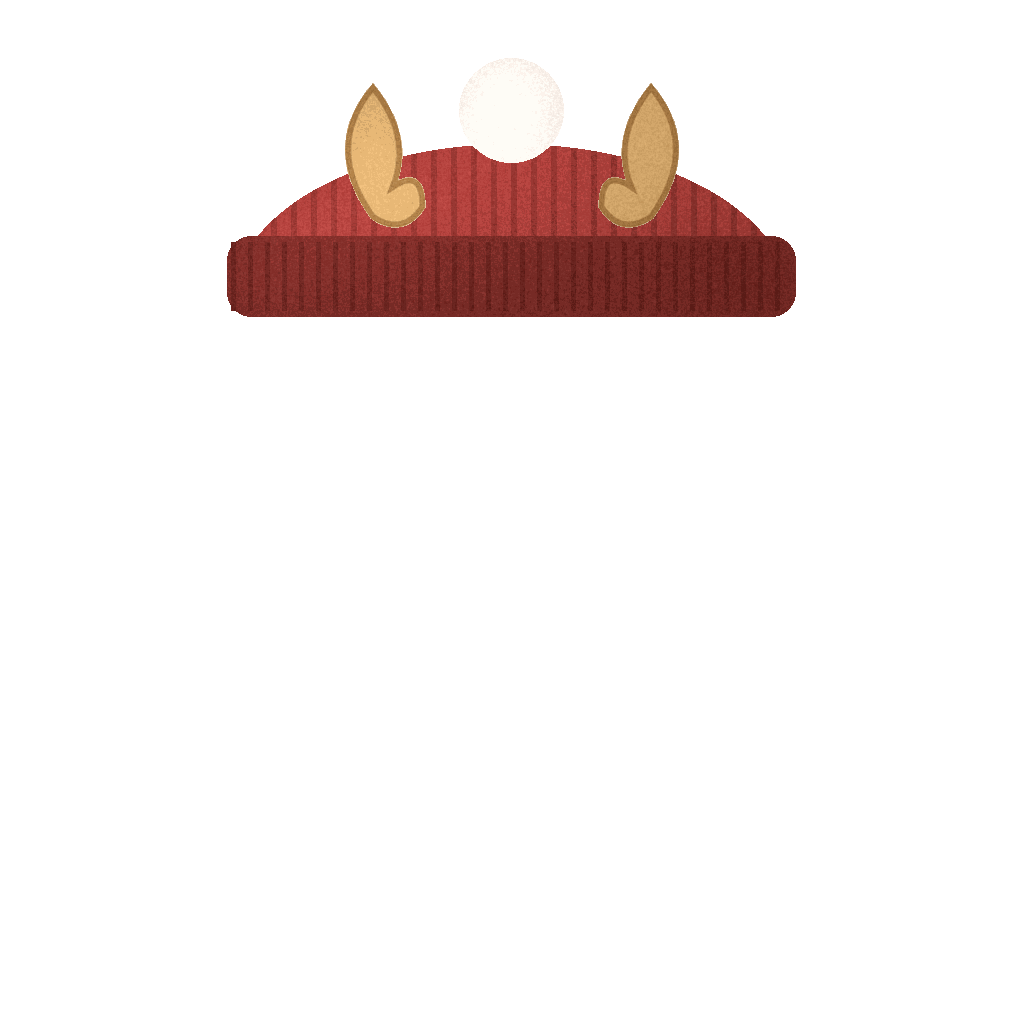
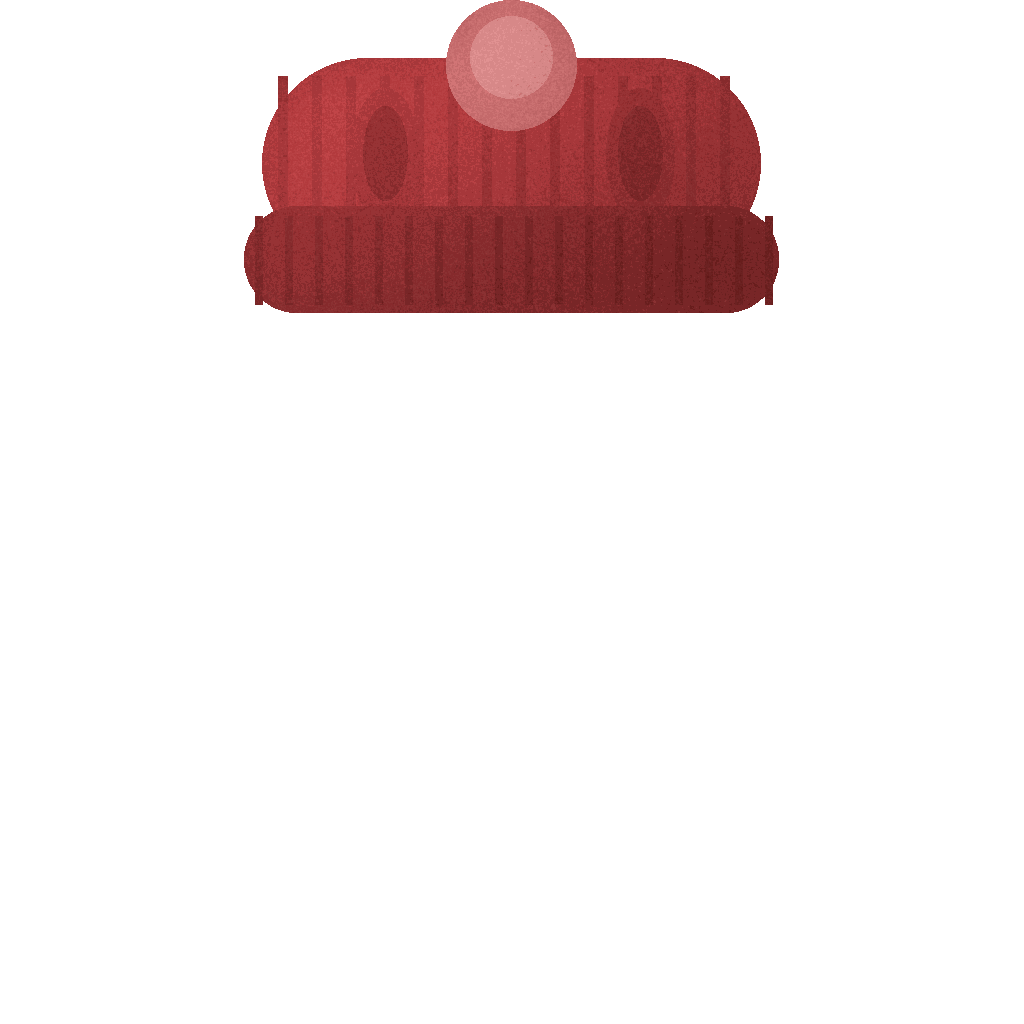
帽子3点だけを acc_v2 で入れ替えました（ニット帽・ベレー・中折れ）
★坂本さんのお決め（2026-09-08）
  ① 直す家族は hats_0N
  ② フードとコック帽は、いまの絵のまま（★acc_v2 では こわれています）
  ③ キャップも、いまの丸い形のまま
  ④ 3点だけを入れ替える

★★様式は tools/acnh_style.py の restyle を、そのまま通しました。
  ★他の200点あまりと、同じ通り道です。★3点だけ質感が違う、を避けます。
★★形式も P形式・1024・透明の目印255。★他と同じ帯（40〜52KB）に入りました。

★★耳の代用を、確かめました。
  ★acc.py が読む orig_sheep.png は、この repo にありません。
  ★体＋頭 を重ねたもので代えましたが、
  ★★体は、耳の画素を1つも出しません（★0画素）。
  ★だから、頭だけから取ったものと、★色まで まったく同じでした。
  ★これで、前の報告に書いた「確かめられなかったこと」が消えました。

★ベレーは、黒から えんじ に変わります（acc_v2 の既定の色）。
  ★hatBeret（ベレー帽）も えんじ です。★色が近くなります。

★戻し方
  git checkout 30957aa -- public/sheep/items

Claude-Session: https://claude.ai/code/session_01P6Lfc5LxjSbHgGaQUCbdAr

Changed region(s): [[0.2188, 0.0, 0.7812, 0.3125]]

diff --git a/tools/apply_hats_v2.py b/tools/apply_hats_v2.py
@@ -1,0 +1,108 @@
+# -*- coding: utf-8 -*-
+# ★帽子3点を acc_v2 で作り直します（2026-09-08・坂本さんの決め）
+#
+#   ★★入れ替えるのは3点だけです。★ニット帽・ベレー・中折れ。
+#     ★キャップ・フード・コック帽は、★いまの絵のままにします。
+#       ★acc_v2 のフードは輪だけが浮き、★コック帽は白に白で見えません。
+#       ★キャップは、いまの丸い形のほうがきれいです。
+#
+#   ★★様式は tools/acnh_style.py の restyle を、そのまま通します。
+#     ★他の200点あまりと、★同じ通り道でなければ、★3点だけ質感が違います。
+#   ★★形式も P形式です。★他と同じにします。
+#
+#   ★★耳は、頭の絵から取ります。
+#     ★acc.py が読む orig_sheep.png は、この repo にありません。
+#     ★体＋頭 を重ねたもので代えました。
+#     ★★体は、耳の画素を1つも出しません（★0画素と確かめました）。
+#       ★だから、★頭だけから取ったものと、★色まで まったく同じです。
+#
+#   ★戻し方
+#     git checkout 30957aa -- public/sheep/items
+#
+#   使い方
+#     python3 tools/apply_hats_v2.py            … 作って、見比べる紙だけ出す
+#     python3 tools/apply_hats_v2.py --write    … 実際に入れ替える
+
+import sys, os, types, importlib.util
+sys.path.insert(0, os.path.dirname(__file__))
+for n in ("garment", "catalog", "feet"):
+    sys.modules[n] = types.ModuleType(n)
+from PIL import Image, ImageDraw, ImageFont
+import numpy as np
+import acnh_style as A
+
+ROOT = os.path.dirname(os.path.dirname(os.path.abspath(__file__)))
+D = os.path.join(ROOT, "public/sheep/items")
+
+head = Image.open(os.path.join(ROOT, "public/sheep/sheep_head.png")).convert("RGBA")
+body = Image.open(os.path.join(ROOT, "public/sheep/sheep_body.png")).convert("RGBA")
+W, H = head.size
+orig = Image.new("RGBA", (W, H), (0, 0, 0, 0))
+orig.alpha_composite(body); orig.alpha_composite(head)
+
+spec = importlib.util.spec_from_file_location("accv2", os.path.join(ROOT, "tools/from-opus/acc_v2.py"))
+v2 = importlib.util.module_from_spec(spec); spec.loader.exec_module(v2)
+v2.EARIMG = v2._make_ear_layer(orig)     # ★使う側で1度だけ、と書いてあります
+
+# ★★入れ替える3点だけ。★これ以上 増やさないこと。
+REPLACE = [
+    ("hats_02", "ニット帽",   v2.hat_knit),
+    ("hats_03", "ベレー",     v2.hat_beret),
+    ("hats_04", "中折れハット", v2.hat_fedora),
+]
+
+def to_palette(st):
+    """★apply_pal.py と同じ手です。★2つに分かれないよう、同じ値を使います。"""
+    a = np.array(st.getchannel("A"))
+    opaque = a >= 128
+    if not opaque.any():
+        return None
+    rgb = st.convert("RGB").quantize(colors=255, method=Image.Quantize.FASTOCTREE,
+                                     dither=Image.Dither.NONE)
+    idx = np.array(rgb)
+    idx[~opaque] = 255
+    out = Image.fromarray(idx).convert("P")
+    pal = rgb.getpalette()[:255 * 3] + [0, 0, 0]
+    out.putpalette(pal)
+    return out
+
+write = "--write" in sys.argv
+befores, afters = [], []
+for key, name, fn in REPLACE:
+    p = os.path.join(D, key + ".png")
+    befores.append(Image.open(p).convert("RGBA"))
+    raw = fn()                                  # ★acc_v2 の生の絵（RGBA）
+    st = A.restyle(raw)                         # ★他の200点と、同じ様式
+    out = to_palette(st)
+    assert out is not None, key + " が空です"
+    # ★★透明の目印は、保存のときだけでなく、★見比べる紙にも要ります。
+    #   ★これを入れずに RGBA へ直すと、★255番が真っ黒になります。
+    prev = out.copy(); prev.info["transparency"] = 255
+    afters.append(prev.convert("RGBA"))
+    if write:
+        out.save(p, optimize=True, transparency=255)
+        print("★入れ替えました %s（%s）  %.1fKB" % (key, name, os.path.getsize(p)/1024))
+    else:
+        print("★作りました（まだ書いていません） %s（%s）" % (key, name))
+
+# ── 見比べる紙 ──────────────────────────────────
+def onsheep(img):
+    p = Image.new("RGBA", (W, H), (255, 253, 248, 255))
+    p.alpha_composite(body); p.alpha_composite(head); p.alpha_composite(img)
+    return p
+
+try: font = ImageFont.truetype("/System/Library/Fonts/ヒラギノ角ゴシック W4.ttc", 22)
+except Exception: font = ImageFont.load_default()
+S, G, LB = 300, 22, 34
+sheet = Image.new("RGB", (G+(S+G)*3, G+(S+LB+G)*2+20), (247, 242, 230))
+d = ImageDraw.Draw(sheet)
+for ri, (title, imgs) in enumerate([("いまの絵", befores), ("★入れ替えたあと（様式ずみ・P形式）", afters)]):
+    y = G + (S+LB+G)*ri
+    d.text((G, y-4), title, fill=(60, 50, 40), font=font)
+    for ci, im in enumerate(imgs):
+        x = G + (S+G)*ci
+        sheet.paste(onsheep(im).convert("RGB").resize((S, S), Image.LANCZOS), (x, y+LB))
+        d.text((x, y+LB+S+4), "%s  %s" % (REPLACE[ci][0], REPLACE[ci][1]), fill=(90, 80, 70), font=font)
+dest = sys.argv[-1] if sys.argv[-1].endswith(".png") else os.path.join(ROOT, "帽子3点-入れ替え.png")
+sheet.save(dest)
+print("★見比べる紙:", dest)
